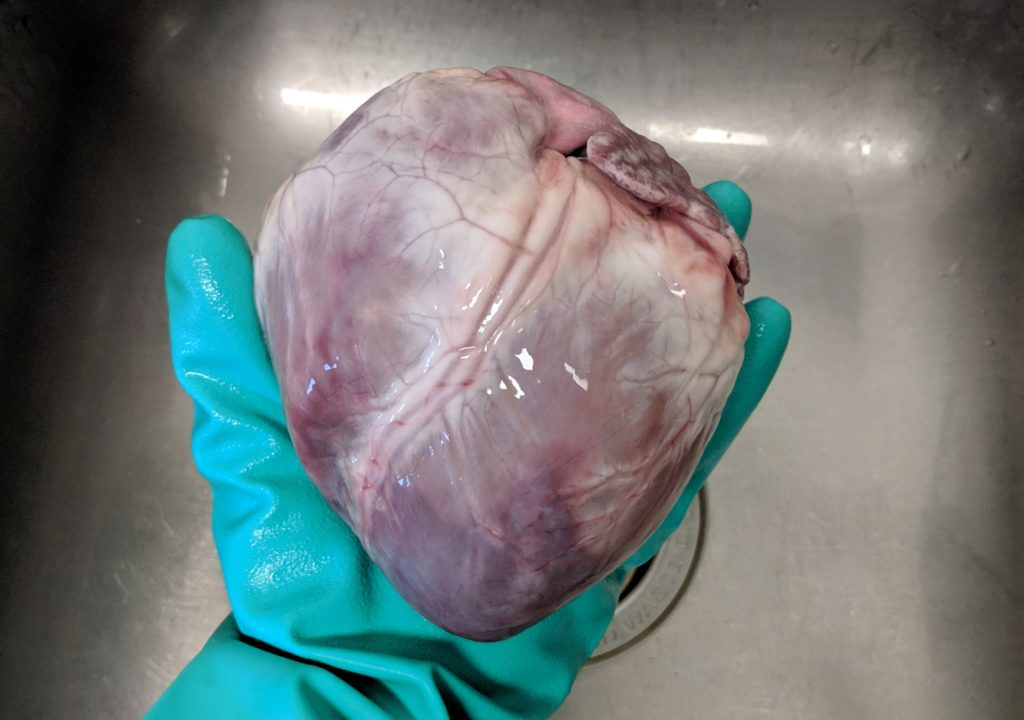
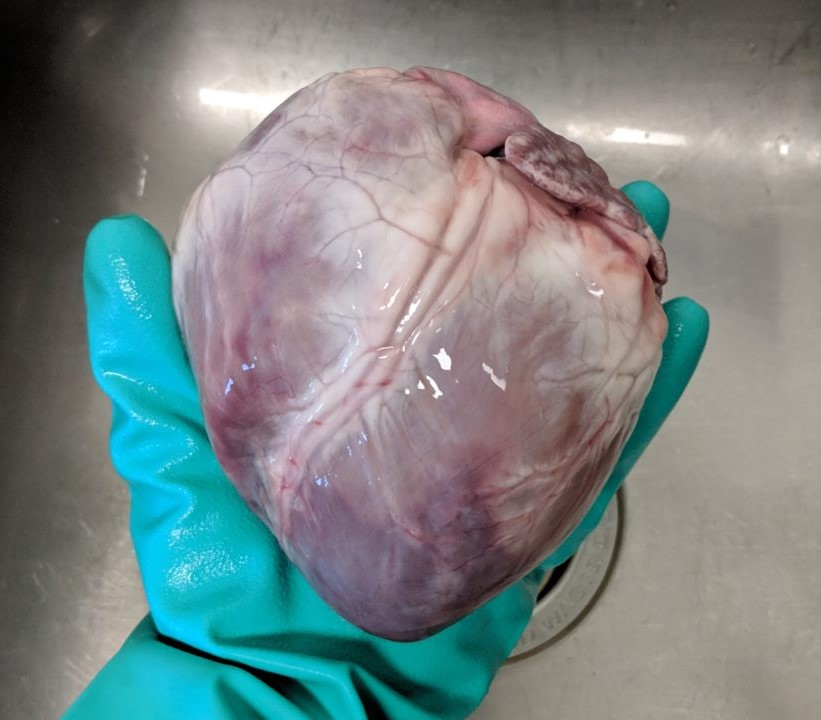
eighth commit

diff --git a/index.html b/index.html
@@ -57,7 +57,7 @@
 
 		<!-- Feature 2 -->
 			<article id="second" class="container box style1 left">
-				<a href="#banner" class=""><img src="images/heartperfusion.jpg" alt="" style="width:580px;height:480px" align="right" /></a>
+				<a href="#banner" class="image fit"><img src="images/heartperfusion.jpg" alt=""  align="right" /></a>
 				<div class="inner">
 					<header>
 						<h2>SERVICES</h2>
@@ -177,7 +177,7 @@
 					<header>
 						<h2>MEET THE TEAM</h2><br />
 					</header>
-				<a href="#team" class=""><img src="images/AudreyM.jpg" alt="" align="right"/></a>
+				<img src="images/AudreyM.jpg" alt="Audrey" align="right" />
 					
 					<header>
 						<h2>Audrey Munoz</h2>

diff --git a/assets/css/main.css b/assets/css/main.css
@@ -1543,6 +1543,11 @@ input, select, textarea {
 			margin: 0 2em 2em 0;
 		}
 
+		.image.right {
+			float: right;
+			margin: 0 0em 2em 2em;
+		}
+
 		.image.centered {
 			display: block;
 			margin: 0 0 2em 0;
